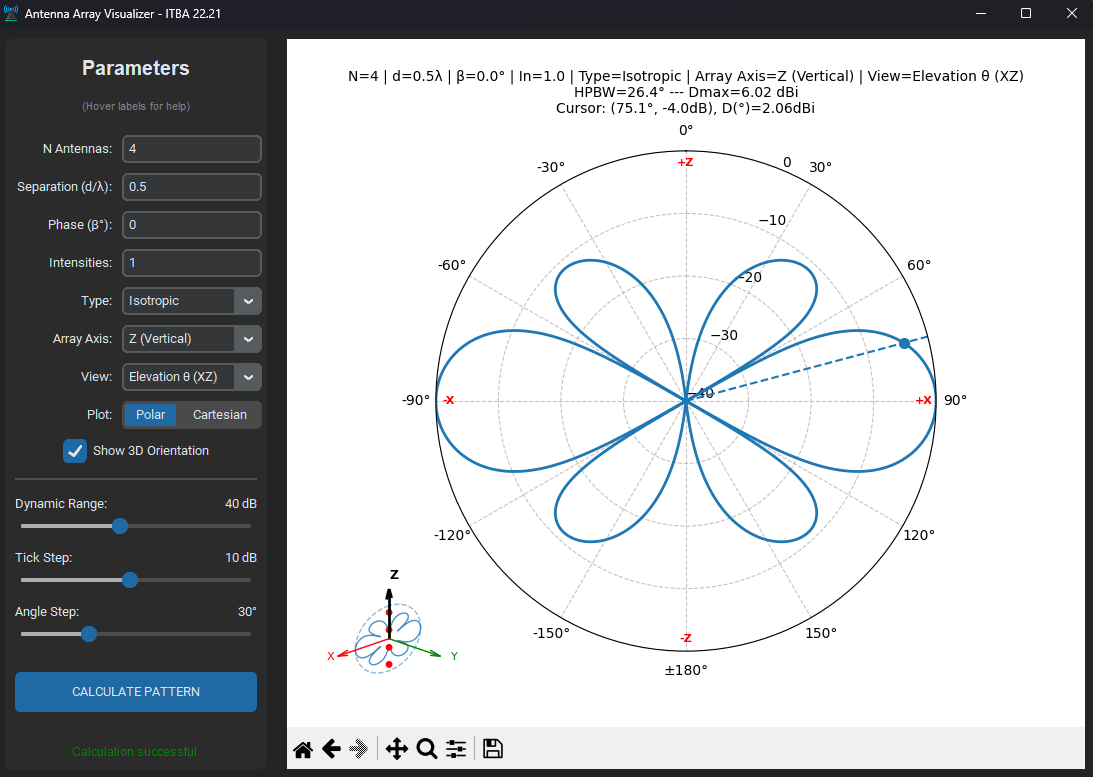
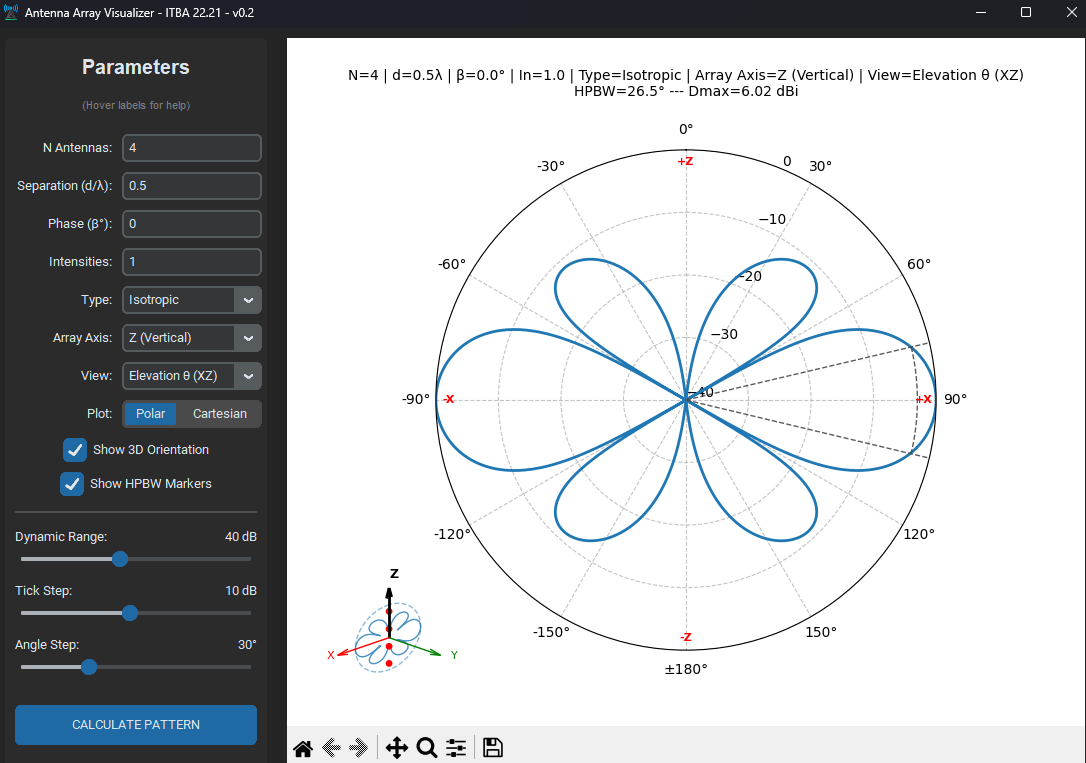
Enhance HPBW calculation and visualization: - Adjust elevation and azimuth cut calculations to ensure full 0 to 360° scanning. - Implement HPBW markers in plots for better visualization of beamwidth. - Add functionality to handle wrap-around angles for accurate marker placement.

diff --git a/src/front.py b/src/front.py
@@ -45,6 +45,8 @@ class App(ctk.CTk):
         # Color constants for plots
         self.PLOT_COLOR_VERTICAL = '#1f77b4'  # Blue for vertical
         self.PLOT_COLOR_HORIZONTAL = '#d62728'  # Red for horizontal
+        # HPBW marker color (dark gray)
+        self.HPBW_COLOR = '#4a4a4a'
 
         self.title("Antenna Array Visualizer - ITBA 22.21 - v0.2")
         self.geometry("1100x750")
@@ -157,6 +159,11 @@ class App(ctk.CTk):
         self.chk_3d.grid(row=r, column=0, columnspan=2, pady=(5, 5))
         r += 1
 
+        self.chk_hpbw = ctk.CTkCheckBox(self.frame_controls, text="Show HPBW Markers", command=self.update_plot)
+        self.chk_hpbw.select()  # Default to checked
+        self.chk_hpbw.grid(row=r, column=0, columnspan=2, pady=(5, 5))
+        r += 1
+
         # Separator
         ctk.CTkFrame(self.frame_controls, height=2, fg_color="gray30").grid(row=r, column=0, columnspan=2, sticky="ew", padx=10, pady=10)
         r += 1
@@ -235,6 +242,66 @@ class App(ctk.CTk):
         if angle_deg > 180:
             angle_deg -= 360
         return angle_deg
+
+    def _shortest_angle_arc(self, a1, a2, n=100):
+        """Return n points (radians) from a1 to a2 following the shortest angular path.
+
+        Handles wrap-around at 0/2*pi so that arcs like 350° -> 10° produce a short 20° arc
+        instead of the long 340° path.
+        """
+        twopi = 2 * np.pi
+        # Normalize to [0, 2pi)
+        a1n = a1 % twopi
+        a2n = a2 % twopi
+        diff = (a2n - a1n) % twopi
+        # If shortest path goes forward
+        if diff <= np.pi:
+            end = a1n + diff
+        else:
+            # Shorter path goes backward (negative direction)
+            end = a1n - (twopi - diff)
+        return np.linspace(a1n, end, n)
+
+    def _draw_hpbw_markers(self, ax, theta_arr, af_db_arr, hpbw_deg, is_polar=False):
+        """Draw HPBW markers (vertical boundaries + -3 dB arc/segment).
+
+        theta_arr : sequence of angles (radians for polar, degrees for cartesian)
+        af_db_arr : corresponding array (dB)
+        hpbw_deg : numeric HPBW in degrees (360 means omni)
+        is_polar : True when theta_arr is in radians and ax is polar
+        """
+        if hpbw_deg >= 360 or not self.chk_hpbw.get():
+            return
+
+        half_db = -3
+        idx_max = np.argmax(af_db_arr)
+        n_points = len(af_db_arr)
+
+        # center peak and search left/right to avoid edge effects
+        center_idx = n_points // 2
+        shift = center_idx - idx_max
+        af_db_shifted = np.roll(af_db_arr, shift)
+
+        l = center_idx
+        while l > 0 and af_db_shifted[l] > half_db:
+            l -= 1
+        r = center_idx
+        while r < n_points - 1 and af_db_shifted[r] > half_db:
+            r += 1
+
+        l_orig = (l - shift) % n_points
+        r_orig = (r - shift) % n_points
+
+        # Draw boundaries
+        ax.axvline(theta_arr[l_orig], color=self.HPBW_COLOR, linestyle='--', linewidth=1, alpha=0.9)
+        ax.axvline(theta_arr[r_orig], color=self.HPBW_COLOR, linestyle='--', linewidth=1, alpha=0.9)
+
+        # Draw -3 dB connector: arc for polar, straight segment for cartesian
+        if is_polar:
+            theta_arc = self._shortest_angle_arc(theta_arr[l_orig], theta_arr[r_orig], 100)
+            ax.plot(theta_arc, np.full_like(theta_arc, half_db), color=self.HPBW_COLOR, linestyle='--', linewidth=1, alpha=0.9)
+        else:
+            ax.plot([theta_arr[l_orig], theta_arr[r_orig]], [half_db, half_db], color=self.HPBW_COLOR, linestyle='--', linewidth=1, alpha=0.9)
 
     # --- CURSOR LOGIC ---
     def get_cursor_data(self, event):
@@ -668,6 +735,9 @@ class App(ctk.CTk):
                     self.ax1.plot(theta_v, af_db_v, color=self.PLOT_COLOR_VERTICAL, linewidth=2)
                     self.ax1.grid(True, alpha=0.75, linestyle='--')
                     
+                    # HPBW markers
+                    self._draw_hpbw_markers(self.ax1, theta_v, af_db_v, hpbw_elevation, is_polar=True)
+                    
                     directions_v = {'+Z': 0, '+X': np.pi/2, '-Z': np.pi, '-X': 3*np.pi/2}
                     # Place direction labels slightly below the top (0 dB) so they remain
                     # visible for small dynamic ranges. Offset is min(2 dB, 20% of dyn_range).
@@ -692,6 +762,9 @@ class App(ctk.CTk):
                     self.ax2.set_yticks(np.arange(-dyn_range, 1, tick_step))
                     self.ax2.plot(theta_h, af_db_h, color=self.PLOT_COLOR_HORIZONTAL, linewidth=2)
                     self.ax2.grid(True, alpha=0.75, linestyle='--')
+                    
+                    # HPBW markers
+                    self._draw_hpbw_markers(self.ax2, theta_h, af_db_h, hpbw_azimuth, is_polar=True)
                     
                     directions_h = {'+X': 0, '+Y': np.pi/2, '-X': np.pi, '-Y': 3*np.pi/2}
                     offset = min(2, dyn_range * 0.2)
@@ -718,6 +791,30 @@ class App(ctk.CTk):
                     color = self.PLOT_COLOR_VERTICAL if "Elevation" in view else self.PLOT_COLOR_HORIZONTAL
                     self.ax.plot(theta, af_db, color=color, linewidth=2)
                     self.ax.grid(True, alpha=0.75, linestyle='--')
+                    
+                    # Add HPBW markers if not omnidirectional and enabled
+                    hpbw_current = hpbw_elevation if "Elevation" in view else hpbw_azimuth
+                    if hpbw_current < 360 and self.chk_hpbw.get():
+                        half_db = -3
+                        idx_max = np.argmax(af_db)
+                        n_points = len(af_db)
+                        center_idx = n_points // 2
+                        shift = center_idx - idx_max
+                        af_db_shifted = np.roll(af_db, shift)
+                        l = center_idx
+                        while l > 0 and af_db_shifted[l] > half_db:
+                            l -= 1
+                        r = center_idx
+                        while r < n_points - 1 and af_db_shifted[r] > half_db:
+                            r += 1
+                        l_orig = (l - shift) % n_points
+                        r_orig = (r - shift) % n_points
+                        self.ax.axvline(theta[l_orig], color=self.HPBW_COLOR, linestyle='--', linewidth=1, alpha=0.9)
+                        self.ax.axvline(theta[r_orig], color=self.HPBW_COLOR, linestyle='--', linewidth=1, alpha=0.9)
+                        # Arc at -3 dB
+                        theta_arc = self._shortest_angle_arc(theta[l_orig], theta[r_orig], 100)
+                        r_arc = np.full_like(theta_arc, -3)
+                        self.ax.plot(theta_arc, r_arc, color=self.HPBW_COLOR, linestyle='--', linewidth=1, alpha=0.9)
                     
                     # Add axis direction labels
                     if "Azimuth" in view:
@@ -754,6 +851,9 @@ class App(ctk.CTk):
                     self.ax1.set_yticks(np.arange(-dyn_range, 1, tick_step))
                     self.ax1.set_xticks(np.arange(-180, 181, angle_step))
                     self.ax1.grid(True, alpha=0.75, linestyle='--')
+                    
+                    # HPBW markers (cartesian)
+                    self._draw_hpbw_markers(self.ax1, self.theta_deg_sorted_v, self.af_db_sorted_v, hpbw_elevation, is_polar=False)
                     self.ax1.set_title(f"Elevation θ (XZ) --- HPBW={hpbw_elevation:.1f}°", fontsize=10)
                     self.ax1_base_title = f"Elevation θ (XZ) --- HPBW={hpbw_elevation:.1f}°"
                     
@@ -779,6 +879,9 @@ class App(ctk.CTk):
                     self.ax2.set_yticks(np.arange(-dyn_range, 1, tick_step))
                     self.ax2.set_xticks(np.arange(-180, 181, angle_step))
                     self.ax2.grid(True, alpha=0.75, linestyle='--')
+                    
+                    # HPBW markers (cartesian)
+                    self._draw_hpbw_markers(self.ax2, self.theta_deg_sorted_h, self.af_db_sorted_h, hpbw_azimuth, is_polar=False)
                     self.ax2.set_title(f"Azimuth φ (XY) --- HPBW={hpbw_azimuth:.1f}°", fontsize=10)
                     self.ax2_base_title = f"Azimuth φ (XY) --- HPBW={hpbw_azimuth:.1f}°"
                     
@@ -809,6 +912,28 @@ class App(ctk.CTk):
                     self.ax.set_yticks(np.arange(-dyn_range, 1, tick_step))
                     self.ax.set_xticks(np.arange(-180, 181, angle_step))
                     self.ax.grid(True, alpha=0.75, linestyle='--')
+                    
+                    # Add HPBW markers if not omnidirectional and enabled
+                    hpbw_current = hpbw_elevation if "Elevation" in view else hpbw_azimuth
+                    if hpbw_current < 360 and self.chk_hpbw.get():
+                        half_db = -3
+                        idx_max = np.argmax(self.af_db_sorted)
+                        n_points = len(self.af_db_sorted)
+                        center_idx = n_points // 2
+                        shift = center_idx - idx_max
+                        af_db_shifted = np.roll(self.af_db_sorted, shift)
+                        l = center_idx
+                        while l > 0 and af_db_shifted[l] > half_db:
+                            l -= 1
+                        r = center_idx
+                        while r < n_points - 1 and af_db_shifted[r] > half_db:
+                            r += 1
+                        l_orig = (l - shift) % n_points
+                        r_orig = (r - shift) % n_points
+                        self.ax.axvline(self.theta_deg_sorted[l_orig], color='red', linestyle='--', linewidth=1, alpha=0.7)
+                        self.ax.axvline(self.theta_deg_sorted[r_orig], color='red', linestyle='--', linewidth=1, alpha=0.7)
+                        # Line at -3 dB between boundaries
+                        self.ax.plot([self.theta_deg_sorted[l_orig], self.theta_deg_sorted[r_orig]], [-3, -3], color='red', linestyle='--', linewidth=1, alpha=0.7)
 
             if view == "Both":
                 suptitle_text = f"{config_str}\nDmax={d_dbi:.2f} dBi"

diff --git a/src/back.py b/src/back.py
@@ -140,26 +140,23 @@ class AntennaCalculator:
         beta = np.deg2rad(beta_deg)
         indices = np.arange(N) - (N - 1) / 2
         
+        # --- FIX 1: Siempre escanear 0 a 2pi (360°) para evitar cortes en los polos ---
+        n_points = 2000
+        var_angle = np.linspace(0, 2 * np.pi, n_points) 
+        
         if cut == "elevation":
-            # Elevation Cut: vary theta from 0 to pi, phi=0
-            var_angle = np.linspace(0, np.pi, 2000)
             if "X" in array_axis:
-                # Array on X: psi = k * d_lambda * sin(theta) + beta
                 psi = k * d_lambda * np.sin(var_angle) + beta
             else:
-                # Array on Z: psi = k * d_lambda * cos(theta) + beta
                 psi = k * d_lambda * np.cos(var_angle) + beta
             EF = self._get_element_factor(var_angle, element_type)
+            
         elif cut == "azimuth":
-            # Azimuth Cut: vary phi from 0 to 2pi, theta=pi/2
-            var_angle = np.linspace(0, 2 * np.pi, 2000)
             if "X" in array_axis:
-                # Array on X: psi = k * d_lambda * sin(theta) * cos(phi) + beta = k * d_lambda * cos(phi) + beta
                 psi = k * d_lambda * np.cos(var_angle) + beta
             else:
-                # Array on Z: psi = k * d_lambda * cos(theta) + beta = constant (omnidirectional)
                 psi = beta
-            EF = np.ones_like(var_angle)  # At theta=90°, vertical dipole is omnidirectional in azimuth
+            EF = np.ones_like(var_angle)
         else:
             raise ValueError("Invalid cut type")
         
@@ -169,29 +166,41 @@ class AntennaCalculator:
             
         power = (np.abs(AF) * EF)**2
         max_p = np.max(power)
-        if max_p == 0: return 0.0  # No radiation
+        if max_p == 0: return 0.0
+        
+        # --- FIX 2: Manejo de "Wrap-around" (Rotar el array para centrar el pico) ---
+        # Esto soluciona problemas cuando el haz está en 0°, 180° o 360°
+        
+        idx_max = np.argmax(power)
+        center_idx = n_points // 2
+        shift = center_idx - idx_max
+        
+        # Rotamos el array de potencia para que el máximo quede en el centro
+        power_shifted = np.roll(power, shift)
         
         half = 0.5 * max_p
-        idx_max = np.argmax(power)
         
-        # Find left boundary
-        l = idx_max
-        while l > 0 and power[l] > half:
+        # Buscar hacia la izquierda desde el centro
+        l = center_idx
+        while l > 0 and power_shifted[l] > half:
             l -= 1
         
-        # Find right boundary
-        r = idx_max
-        while r < len(power) - 1 and power[r] > half:
+        # Buscar hacia la derecha desde el centro
+        r = center_idx
+        while r < n_points - 1 and power_shifted[r] > half:
             r += 1
+            
+        # Calcular ancho en índices y convertir a grados
+        # Nota: Usamos 360 (no 2pi) porque el resultado final se espera en grados
+        # El rango es 0 a 360, por lo que la resolución es 360 / (n_points - 1)
+        angle_res = 360.0 / (n_points - 1)
+        width_indices = r - l
+        hpbw_deg = width_indices * angle_res
         
-        beamwidth_rad = var_angle[r] - var_angle[l]
-        beamwidth_deg = np.rad2deg(beamwidth_rad)
-        
-        # If the pattern is uniform (omnidirectional), set to 360°
-        if beamwidth_deg >= 359:  # Close to 360
+        if hpbw_deg >= 359: 
             return 360.0
         
-        return beamwidth_deg
+        return hpbw_deg
 
     def _get_element_factor(self, theta, el_type):
         """Return element factor vs theta for given element type.
